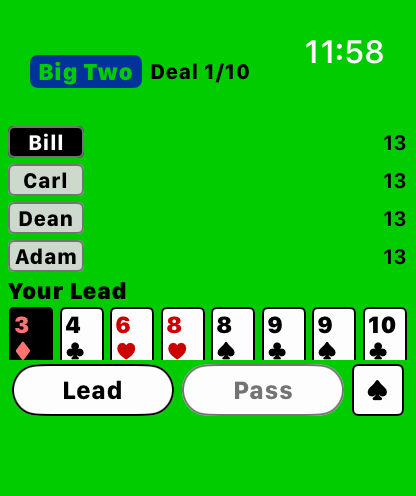
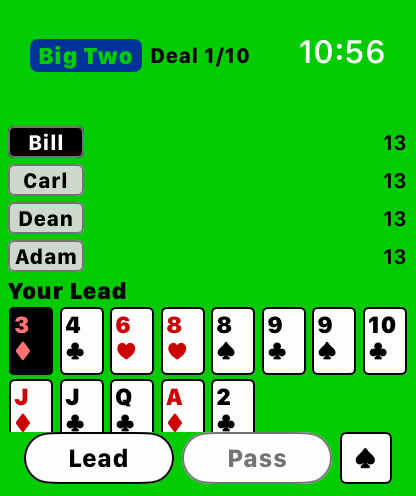
Lift the watch title onto the clock's row, drop the buttons to the glass
The toolbar places its item below the clock's baseline, so the title
carries an explicit offset to sit on that row. The watch reserves a
deep bottom safe area for the curved glass; the button bar takes it
back and keeps its own wider side margins so a full-width pill is not
bitten by the rounded corners.

Between them the whole 13-card hand now fits on one screen. That is
not cosmetic: a watchOS UI test cannot scroll, so anything the player
must reach has to be visible without it.

diff --git a/BigTwoWatch/Views/WatchGameView.swift b/BigTwoWatch/Views/WatchGameView.swift
@@ -63,6 +63,9 @@ struct WatchGameView: View {
     .toolbar {
       ToolbarItem(placement: .topBarLeading) {
         WatchTitleBarView(deal: game.deal, dealsPerGame: game.rules.dealsPerGame)
+          // The toolbar drops its item below the clock's baseline; this lifts the tab
+          // back onto the clock's own row, which is where the phone puts the title.
+          .offset(y: -8)
       }
     }
     // The buttons stay put while 13 cards scroll, so a turn is never missed scrolling back.
@@ -103,13 +106,20 @@ struct WatchGameView: View {
       .accessibilityLabel(L10n.string(game.preferences.sortBySuit ? "Sort by rank" : "Sort by suit"))
       .accessibilityIdentifier("button_sort")
     }
-    .padding(.horizontal, 4)
-    .padding(.bottom, 2)
+    // Wider side margins and a little lift than the rest of the screen uses: this bar
+    // now sits in the curved glass, where the rounded corners bite into the corners of a
+    // full-width pill.
+    .padding(.horizontal, 10)
+    .padding(.bottom, 6)
     .frame(maxWidth: .infinity)
     .frame(height: 32)
     // The bar sits over the scroll view; without an opaque fill the hand scrolls through
     // it and the buttons read as ghosts.
     .background(Color.felt)
+    // A watch reserves a deep bottom safe area for the curved glass. Keeping out of it
+    // left a thick empty band under the buttons and cost the hand a row, so the bar
+    // takes it back — the pills are still well inside the rounded corners.
+    .ignoresSafeArea(.container, edges: .bottom)
   }
 
   private var prompt: String {

diff --git a/docs/test_runs.md b/docs/test_runs.md
@@ -69,3 +69,4 @@ evidence that a test can fail; they stay in the log.
 - 2026-09-29 — watch-app: `BigTwoWatchUITests` ✓ 4/4 (3 behaviour + a screen tour) on Apple Watch Series 12 (46mm), watchOS 27.0 · iOS ✓ 15/15 (iPhone 16 Pro Max, 18.6), all nine tour shots clock-only. Watch PNGs extracted to a scratch dir and **not** committed (no `status_bar override` on watchOS). Hashing those PNGs is what proved a watchOS UI test cannot scroll — the "after scrolling" shot was byte-identical to the one before it, twice, so the earlier claim that the tests scroll before they tap was wrong and the scroll helper has been removed
 - 2026-09-29 — `screenshots/watchos/` now committed: re-ran `WatchScreenTourUITests` at a different clock time and all three shots came back *clock only, kept*. Guard proved both ways in-process — a pixel inside the ignored 15% band keeps the old file, a pixel one row below it overwrites
 - 2026-09-29 — watch-app: title moved into the top bar beside the clock, sort icon added to the bottom bar. `BigTwoWatchUITests` ✓ 5/5. Deliberate break: the sort toggle removed → `testSortButtonFlipsTheOrder` failed; restored → ✓. That restored run then failed anyway — the broken run had *saved* the flipped sort order, so the next launch started in it; the watch now uses a throwaway preference suite under `UITestMode` like the phone, proved by running that one test twice in a row
+- 2026-09-30 — watch-app: title lifted onto the clock's row, button bar pushed into the bottom safe area. `BigTwoWatchUITests` ✓ 5/5; the whole 13-card hand now fits on one screen, so nothing the player needs is below the fold

diff --git a/CLAUDE.md b/CLAUDE.md
@@ -192,6 +192,13 @@ runs the same `BigTwoKit` — same rules, same bots, same scoring. The kit decla
   for a **full first row of cards** to be visible without scrolling.
   Lead/Play and Pass hide when it is not your turn, as on the phone; the sort icon does
   not, and shows the order a tap switches *to* (`♠` / `2`).
+  ⚠ Two offsets fight the system here and both are deliberate: the toolbar drops its item
+  below the clock's baseline, so the title carries `.offset(y: -8)` to sit on that row;
+  and the watch reserves a deep bottom safe area for the curved glass, so the button bar
+  takes it back with `.ignoresSafeArea(.container, edges: .bottom)` and keeps clear of the
+  rounded corners with its own wider side margins. Between them the **whole 13-card hand
+  fits without scrolling** — which is the only way it can be played, since a watchOS UI
+  test (and the Digital Crown) cannot scroll it.
   ⚠ The pinned bars need an opaque `Color.felt` background: without one the hand scrolls
   through them and the buttons read as ghosts.
   ⚠ **`WatchPalmButtonView` needs its own `ButtonStyle`**, for the same reason
